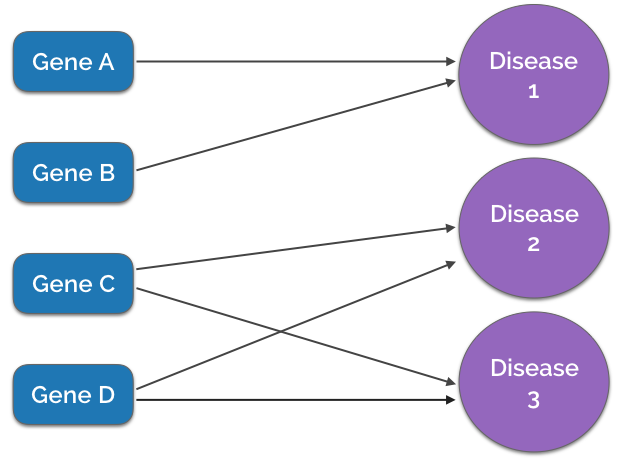
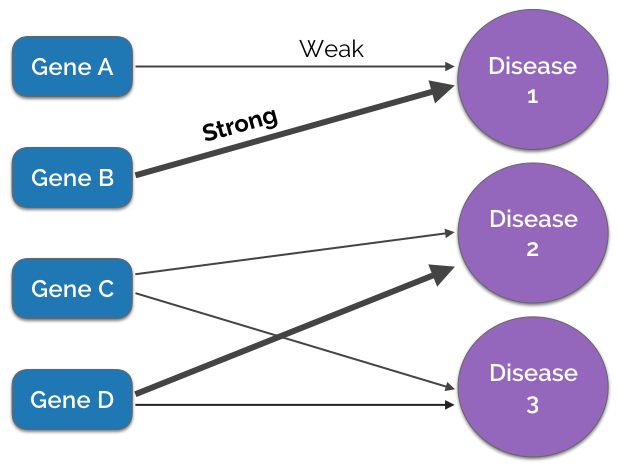
Update graphics & graphic fonts & text

diff --git a/templates/index.html b/templates/index.html
@@ -21,12 +21,14 @@
         <img src="static/gda_overview.png" width="100%">
         <figcaption class="fcap">Some diseases may be caused by multiple genes and a single gene may influence one or more diseases.</figcaption>
       </figure>
-      <p>&nbsp;</p>
-      <p><b><i>The strength of association between a particular gene and medical condition can help determine the probability of generating a successful therapy for this medical condition.</i></b> Here, strength is determined by the amount and quality of data from computational and laboratory investigations of a specific gene-disease association. This data-centric approach can help large and small pharmaceutical companies optimize the direction of their R&D efforts.</p>
+      <p class="intro"><b><i>The strength of association between a particular gene and medical condition can help determine the probability of generating a successful therapy.</i></b></p>
+      <p>If the gene-disease link is strong, a therapy that targets the associated gene is  likely to successfully treat the disease. If the link is weak, an effective therapy may still be developed, but it may not result from targeting the associated gene.</p>
+      <p>Here, strength is determined by the amount and quality of data from computational and laboratory investigations of a specific gene-disease association.</p>
+<!--       <p>This data-centric approach is designed to help large and small pharmaceutical companies optimize the direction of their R&D efforts.</p> -->
 	  
-      <h2 class="subheading">Advantages</h2>
+      <h2 class="subheading">Advantages of data-centric approach</h2>
 
-      <p>Measuring the strength of <b>gene-disease associations (GDAs)</b> has the following direct and indirect benefits:</p>  
+      <p>Measuring the strength of <b>gene-disease associations (GDAs)</b> has several direct and indirect benefits:</p>  
 
       <ol>
       <li>Identifying relationships among cellular pathways improves understanding of disease pathology.</li>
@@ -38,13 +40,13 @@
         <p>&nbsp;</p>
         </div>
         <div class="box">
-		<h2 class="caption">Therapeutic potential from gene-disease associations</h2>
+		<h2 class="caption">Therapeutic potential of gene-disease associations</h2>
 		<p><u><b>Quick interpretation:</b></u>&nbsp; the diseases with highest potential  are found toward the bottom and right-hand side of the chart. These regions correspond to a low number of genes per disease and strong association (or <b>score</b>) respectively.</p>
 		<p><u><b>Additional insights:</b></u>&nbsp; please see the <a href="#description">data collection, organization, and analysis</a></i> sections below for additional information.</p>
         <div class="bokeh">
         {{ div | safe }}
         </div>
-
+        <p>&nbsp;</p>
         <h2 class="caption">Gene-disease association by disease area</h2>
         <div class="mpl">
         <img src="static/catdist.png">
@@ -67,7 +69,7 @@
       </ul>
       
       <h2 class="subheading">Data organization</h2>
-      <table cellspacing="16px" style="margin: 0px auto;">
+      <table cellspacing="12px" style="margin: 0px auto;">
       <tr>
       <th>Source</th>
       <th>Format</th>
@@ -78,7 +80,7 @@
       <td>NIH Genetics Reference</td>
       <td>HTML</td>
       <td>Web scraping with beautiful soup</td>
-      <td>Disease categories, few GDAs <br>(Gene-Disease Associations)</td>
+      <td>Disease categories, few GDAs</td>
       </tr>
       <tr>
       <td>DisGeNet</td>
@@ -99,7 +101,8 @@
       <p>The metrics constructed here are based on work done for the DisGeNet database. The weighted score described below represents a metric [0,1] that describes the quality of the established link between the identified gene and associated diseases. Each gene may influence several diseases and each disease may be influenced by several genes.</p>
       <ul><b><i>Strength of association</b> = ( WUniProt + WCTDhuman + WClinVar ) + ( WRat + WMouse ) + ( WGAD + WLHGDN + WBeFree )</i></ul>
   	  <ul><b><i>Number of genes per disease</b> (fewer gene targets indicate more well-defined and easier to treat disease pathology)</i></ul>
-      <p>For the <b>strength of association</b> calculation, each variable is either <i>0 or some positive value</i> based on whether that gene-disease association appears in the corresponding database. The first term in parentheses represents curated databases, the second term is predicted databases and the third term takes into account the number of publications where the link appears. The <a href="http://www.disgenet.org/web/DisGeNET/menu/dbinfo">DisGeNet About Page</a> has more detailed information.</p>
+      <p>For the <b>strength of association</b> calculation, each variable is either <i>0 or some positive value</i> based on whether that gene-disease association appears in the corresponding database. The first term in parentheses represents curated databases, the second term is predicted databases and the third term takes into account the number of publications where the link appears.</p>
+      <p>The <a href="http://www.disgenet.org/web/DisGeNET/menu/dbinfo">DisGeNet About Page</a> has more detailed information.</p>
 
 
 

diff --git a/static/style.css b/static/style.css
@@ -1,17 +1,18 @@
 body            { font-family: 'Source Sans Pro', helvetica neue, sans-serif; 
                   background: White; margin: 0px; font-size: 20px; font-weight: 300; }
 a, h1, h2       { text-decoration: none; color: #1f77b4; font-weight: 400; }
-h1              {   }
-h2              { font-size: 1.6em; padding: 0; }
+
+h2              { font-size: 1.6em; padding: 0px; }
 h3				{ font-size: 1.2em; margin: 0px auto; padding: 0px; }
 li				{ margin-top: 12px; margin-bottom: 12px; }
 img				{ max-width: 100%; }
 th              { border-bottom: 1px solid #aaa; }
-td              { padding: 2px; }
+td              { padding: 2px; vertical-align: top; }
 b               { font-weight: 400; }
 
-.box            { box-shadow: 0px 0px 10px #ccc; padding: 20px; margin: 0 auto;
-                  width: 92%; }
+.box            { box-shadow: 0px 0px 10px #ccc; padding: 20px; padding-top: 1px;
+                  margin: 0 auto; width: 92%; 
+                  clear: both; }
 .header			{ border-bottom: 1px solid #ccc; /*height: 150px;*/ }
 .headertop		{ font-size: 2.4em; padding: 10px; padding-top: 20px; padding-bottom:         
                   12px; color: #fff; background-color: #1f77b4; margin: 0;  border-bottom: 
@@ -22,13 +23,13 @@ b               { font-weight: 400; }
 .page           { border: 0px solid #fff; padding: 0px; background: white; }
 .page-primary	{ padding: 0px; border: 0px solid #000; width: 90%; margin: auto; }
 
-.figgda        { float: right; width: 45%; margin: 0px auto; padding-left: 16px; 
-                  padding-bottom: 16px; padding-top: 0px; }
+.intro          { padding-top: 16px; }
+.figgda         { float: right; width: 45%; margin: 0px auto; padding-left: 24px; 
+                  padding-bottom: 24px; padding-top: 0px; }
 .fcap           { font-family: 'Raleway', sans-serif; text-align: center; 
                   font-weight: 600; }
-.subheading		{ color: #444; /* clear: both; */ }
-.caption		{ font-family: 'Raleway', sans-serif; text-align: center; color: #444;
-                  clear: both; }
+.subheading		{ color: #444; clear: both; }
+.caption		{ font-family: 'Raleway', sans-serif; text-align: center; color: #444; }
 .bokeh			{ border: 1px solid #777; padding: 24px; text-align: left; }
 .mpl			{ border: 1px solid #777; padding: 24px; text-align: center; 
 				  max-width: 80%; margin: 0 auto; }

diff --git a/app.py b/app.py
@@ -62,11 +62,12 @@ def index():  #remember the function name does not need to match the URL
 
 
     p = figure(plot_width=900, plot_height=600, tools=['box_zoom','pan','reset', 'save',hover], title="")
-    p.title_text_font = 'helvetica neue'
+#     p.title_text_font = 'helvetica neue'
+    p.title_text_font = 'Source Sans Pro'
     p.xaxis.axis_label = 'Strength of Association  ( Higher is Better )'
     p.yaxis.axis_label = 'Gene Associations Per Disease  ( Lower is Better )'
-    p.xaxis.axis_label_text_font = 'helvetica neue'
-    p.yaxis.axis_label_text_font = 'helvetica neue'
+    p.xaxis.axis_label_text_font = 'Source Sans Pro'
+    p.yaxis.axis_label_text_font = 'Source Sans Pro'
 
 
     p.circle('x', 'y', size=20, fill_alpha=0.8, color=dfall['color'], source=source, line_width=1, line_color='#000000')
